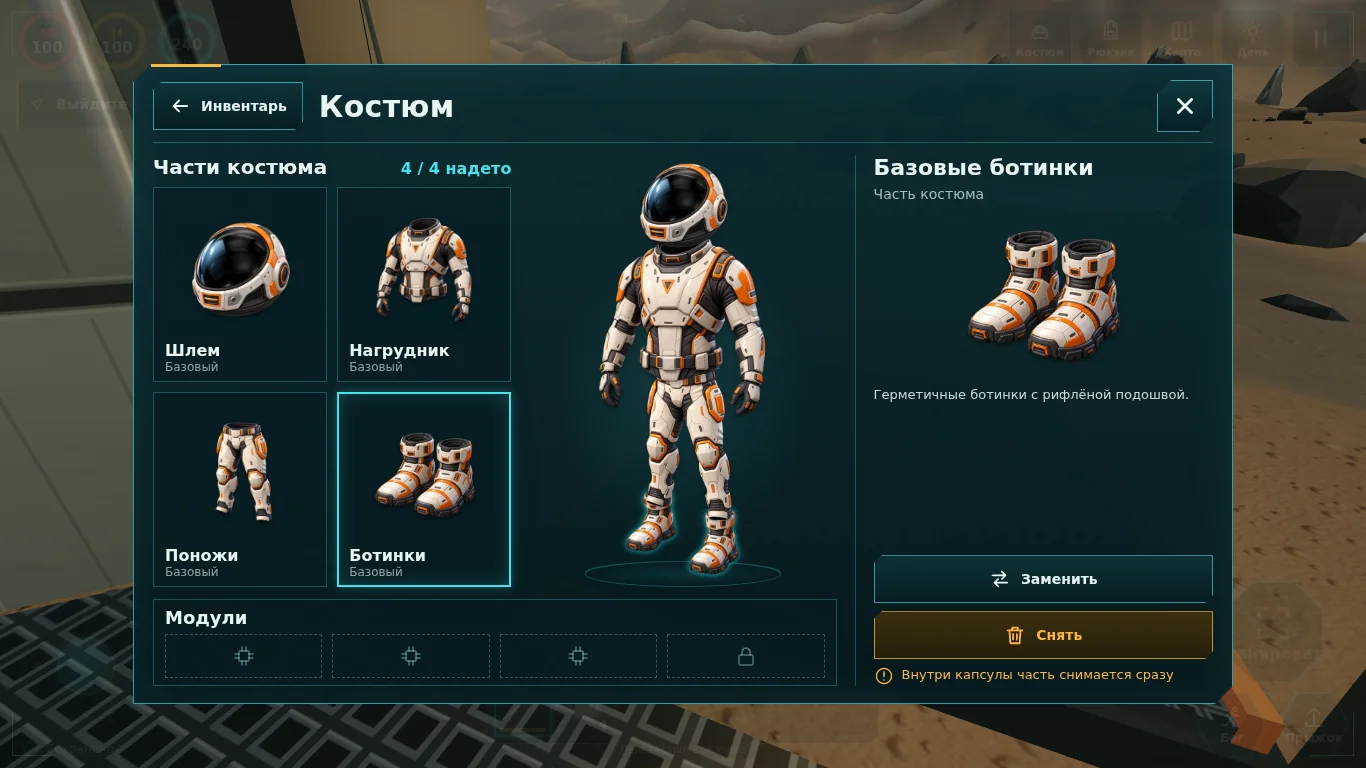
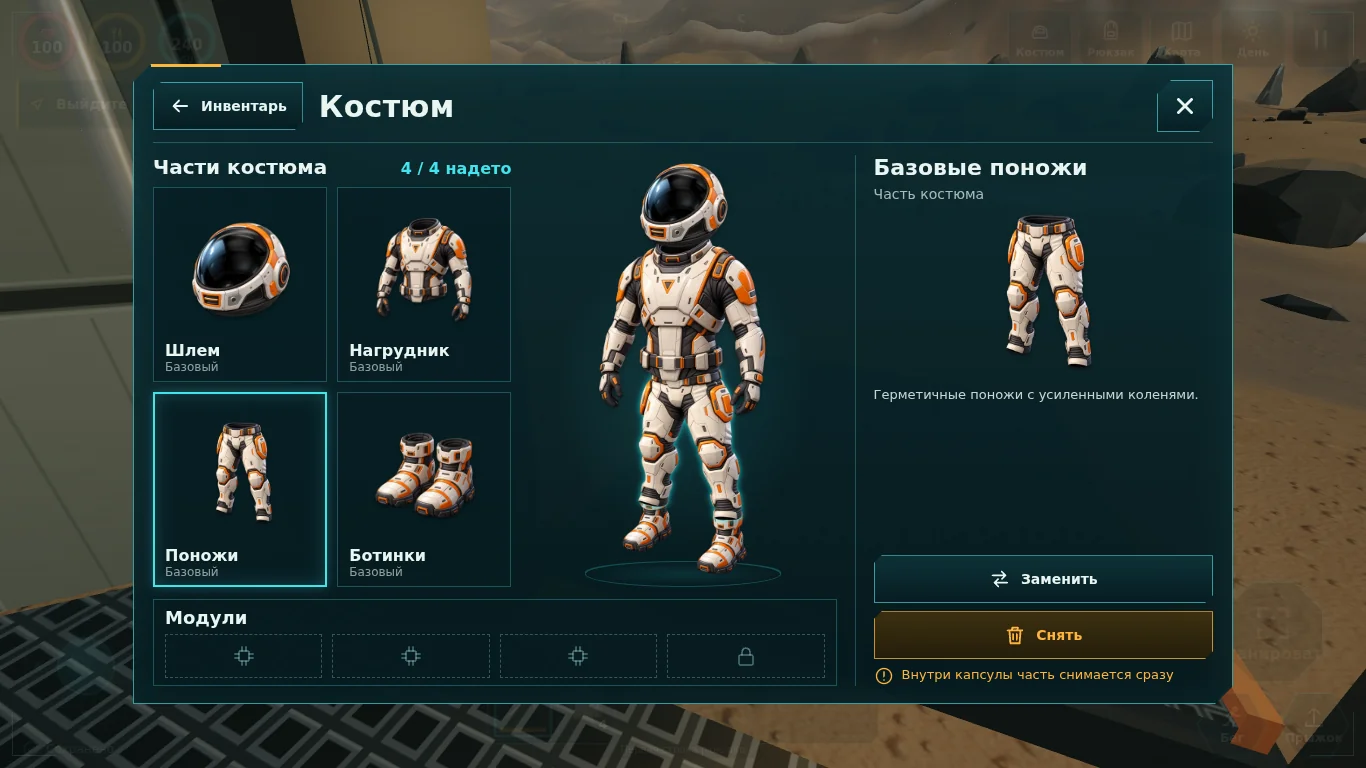
Match suit leg width to the chest and realign boots
Widen the leg artwork by 20% while preserving its rendered height, and position both boots under the wider ankles. Update real game screenshots at three viewport sizes and record successful part removal/reequip checks. Document the user's Vercel-only preview workflow.

Validation: TypeScript and Vite build; focused Chromium screenshots at 844x390, 1366x768 and 667x320, removal/reequip of legs and boots, no console errors. Standalone HTML unchanged.

diff --git a/src/style.css b/src/style.css
@@ -314,14 +314,16 @@ input[type=range]::-moz-range-track{height:3px;background:var(--line)}input[type
 .raster-figure .fig-part.sel:not(.off) img{filter:drop-shadow(0 0 3px rgba(26,241,248,.8))}
 .raster-figure .fig-helmet{left:30%;top:0;width:40%;height:23%;z-index:4}
 .raster-figure .fig-chest{left:0;top:16%;width:100%;height:45%;z-index:3}
-.raster-figure .fig-legs{left:20%;top:43%;width:60%;height:48%;z-index:2}
+/* Keep the previous rendered leg height; match the hip width to the chest belt. */
+.raster-figure .fig-legs{left:14%;top:47%;width:72%;height:40%;z-index:2}
+.raster-figure .fig-legs img{object-fit:fill}
 .raster-figure .fig-boots{inset:0;z-index:1}
 .raster-figure .fig-boots img,.raster-figure .fig-boots.sel:not(.off) img{filter:none}
 /* Glow follows the separated silhouettes, rather than their clipping edges. */
 .raster-figure .fig-boots.sel:not(.off){filter:drop-shadow(0 0 3px rgba(26,241,248,.8))}
 .fig-boot{position:absolute;width:36%;height:24%}
-.fig-boot-left{left:30%;top:73%;clip-path:polygon(0 0,50% 0,50% 65%,44% 80%,44% 100%,0 100%)}
-.fig-boot-right{left:34.3%;top:76%;clip-path:polygon(50% 0,100% 0,100% 100%,44% 100%,44% 80%,50% 65%)}
+.fig-boot-left{left:28.5%;top:73%;clip-path:polygon(0 0,50% 0,50% 65%,44% 80%,44% 100%,0 100%)}
+.fig-boot-right{left:36.9%;top:76%;clip-path:polygon(50% 0,100% 0,100% 100%,44% 100%,44% 80%,50% 65%)}
 .figure-platform{position:absolute;left:16%;right:16%;bottom:0;height:6%;border:1px solid rgba(58,229,240,.25);border-radius:50%;background:radial-gradient(ellipse,rgba(36,195,207,.13),transparent 70%);z-index:0}
 .fig-part path,.fig-part circle{fill:#e9e8e3;stroke:#3d4648;stroke-width:1.4}.fig-part .fig-accent{fill:#e8742a;stroke:#e8742a}.fig-part .fig-dark{fill:none;stroke:#2b3234;stroke-width:4}.fig-part .fig-visor{fill:#12181a;stroke:#e8742a}
 .fig-part.off path,.fig-part.off circle{fill:none;stroke:rgba(160,220,225,.45);stroke-dasharray:4 3}.fig-part.off .fig-accent,.fig-part.off .fig-visor{fill:none}

diff --git a/docs/art/ui/UI_SPRITES.md b/docs/art/ui/UI_SPRITES.md
@@ -10,7 +10,7 @@
 
 `ITEM_ART` в `src/ui/art.ts` импортирует файлы статически. Все варианты отображения используют один спрайт: быстрый доступ, ячейка рюкзака, мини-слот костюма, баллон, крупное описание, перетаскивание и список замены. Vite создаёт локальные хешированные URL; `tools/build_standalone.mjs` встраивает изображения в автономный HTML через loader `dataurl`. Внешних изображений нет.
 
-Фигура костюма собирается в DOM из четырёх растровых частей через `FIGURE_ART.parts`. Для ботинок используется отдельный прозрачный `src/assets/figure/suit_boots.webp` с широкой постановкой ног. Два ботинка из одного спрайта совмещены каждый со своей штаниной CSS-масками; компактная пара в ячейках сохраняется. Внутренний холст 2:3 сохраняет выравнивание в карточке и большом окне, а подсветка применяется после разделения пары. Каждый слой реагирует на состояние соответствующего слота: надетая часть видна, выбранная подсвечена, снятая показывается слабым серым силуэтом для ориентира. Сборка — иллюстрация экипировки, не 3D-модель. Ботинки и поножи — отдельные слои; будущие варианты можно подключить через реестр. Векторные контуры пустых слотов и функциональные пиктограммы кнопок сохранены.
+Фигура костюма собирается в DOM из четырёх растровых частей через `FIGURE_ART.parts`. Для ботинок используется отдельный прозрачный `src/assets/figure/suit_boots.webp` с широкой постановкой ног. Два ботинка из одного спрайта совмещены каждый со своей штаниной CSS-масками; компактная пара в ячейках сохраняется. Внутренний холст 2:3 сохраняет выравнивание в карточке и большом окне, а подсветка применяется после разделения пары. Поножи масштабируются отдельно по ширине и высоте: ширина таза согласована с поясом нагрудника, прежняя высота ног сохранена; ботинки совмещены с более широкой постановкой щиколоток. Каждый слой реагирует на состояние соответствующего слота: надетая часть видна, выбранная подсвечена, снятая показывается слабым серым силуэтом для ориентира. Сборка — иллюстрация экипировки, не 3D-модель. Ботинки и поножи — отдельные слои; будущие варианты можно подключить через реестр. Векторные контуры пустых слотов и функциональные пиктограммы кнопок сохранены.
 
 ## Проверка отображения
 

diff --git a/NEXT_SESSION.md b/NEXT_SESSION.md
@@ -69,6 +69,8 @@ docs/GDD_Vireon.md и нужные главы docs/spec/. Общайся со м
 
 ## 4. Как работать с репозиторием
 
+**Актуальная поправка Малика 4.10.2026:** достаточно превью Vercel. Автономный HTML больше не обновлять/отправлять; локально проверять `npx --no-install tsc --noEmit` и `npx --no-install vite build`, не запускать генератор standalone. Это заменяет прежние указания ниже об обязательном обновлении автономного превью.
+
 - **Только через ветку и pull request.** В `main` вливать **только с явного согласия Малика**. После пуша проверить статус Vercel для коммита и дать пользователю preview-ссылку вида `https://verion-game-git-<ветка>-malikk-shs-projects.vercel.app`.
 - На PR может приходить автоматическое ревью **Codex** (`chatgpt-codex-connector`). Замечания разбирать по существу, исправлять, отвечать в треде и резолвить.
 - Доступ на запись: у GitHub-коннектора ассистента мог быть только read-доступ. Тогда пользователь создаёт fine-grained PAT для `Verion-game` (Contents + Pull requests: read/write). Токен **никогда не просить в чат** — только через защищённое поле ввода; хранить в файле с правами 600 и не печатать. Файлы вне репозитория в песочнице могут пропасть между сообщениями — будь готов попросить токен снова. В конце работы предложить удалить токен и отозвать его на GitHub.

diff --git a/AGENTS.md b/AGENTS.md
@@ -14,6 +14,8 @@
 
 ## Обновление
 
+- **4.10.2026, прямое поручение Малика:** использовать превью Vercel, автономный HTML больше не обновлять и не отправлять. Для проверки сборки запускать `npx --no-install tsc --noEmit` и `npx --no-install vite build` без `tools/build_standalone.mjs`. Передавать только изменённые файлы.
+
 - Менять связанные главы, каталог, сводку и память согласованно. Не только дописывать новое решение в конец противоречащего текста.
 - Все числа — B0 до плейтестов. Отличать расчёт/статическую проверку данных от игры на телефоне.
 - Рецепты определяются `tools/build_design_catalog.py` → `docs/data/catalog.json` → `docs/spec/04_RECIPES.md`. При изменениях запускать генератор и `tools/validate_design.py`, не редактировать только производную таблицу. После проверки запускать `tools/build_full_gdd.py`, чтобы единый файл `docs/GDD_Vireon_FULL.md` совпадал с главами.
